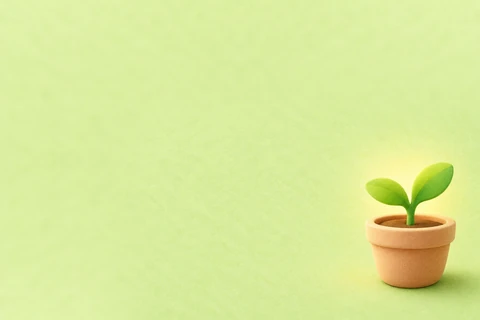
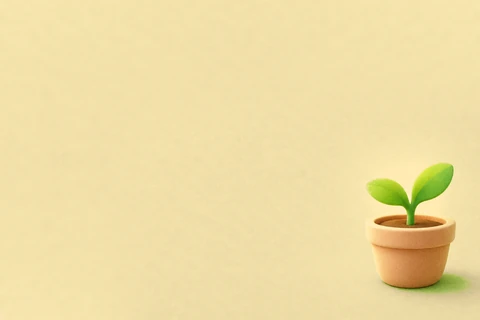
style: replace light green with rose and butter
- You home Invite friends tile and its paper plane are rose.
- The Discipleship group card's pale green field is butter; the sprout
  stays green.

diff --git a/components/community/community-home-v3.module.css b/components/community/community-home-v3.module.css
@@ -64,7 +64,7 @@
 .groupTop h3 { margin: 0; font-size: 14px; line-height: 19px; font-weight: 500; overflow: hidden; display: -webkit-box; -webkit-line-clamp: 2; -webkit-box-orient: vertical; overflow-wrap: anywhere; }
 .groupMeta { max-width: 58%; font-size: 12px; line-height: 16px; opacity: .82; }
 .groupCard[data-art="location"] { background-color: #cfe6fb; color: #0e3f73; background-image: image-set(url("/assets/dashboard/community-groups/location-compact-320.webp") 1x, url("/assets/dashboard/community-groups/location-compact-640.webp") 2x); }
-.groupCard[data-art="discipleship"] { background-color: #e1f2c6; color: #23400a; background-image: image-set(url("/assets/dashboard/community-groups/discipleship-compact-320.webp") 1x, url("/assets/dashboard/community-groups/discipleship-compact-640.webp") 2x); }
+.groupCard[data-art="discipleship"] { background-color: #f6e4ac; color: #5a4508; background-image: image-set(url("/assets/dashboard/community-groups/discipleship-compact-320.webp") 1x, url("/assets/dashboard/community-groups/discipleship-compact-640.webp") 2x); }
 .groupCard[data-art="leading"] { background-color: #e3d8f8; color: #3e1876; background-image: image-set(url("/assets/dashboard/community-groups/leading-compact-320.webp") 1x, url("/assets/dashboard/community-groups/leading-compact-640.webp") 2x); }
 .groupCard[data-art="public"] { background-color: #f6e7cc; color: #5a3d0c; background-image: image-set(url("/assets/dashboard/community-groups/public-compact-320.webp") 1x, url("/assets/dashboard/community-groups/public-compact-640.webp") 2x); }
 .groupCard[data-art="private"] { background-color: #f6d9de; color: #5e2236; background-image: image-set(url("/assets/dashboard/community-groups/private-compact-320.webp") 1x, url("/assets/dashboard/community-groups/private-compact-640.webp") 2x); }

diff --git a/components/dashboard/v3/home-art.tsx b/components/dashboard/v3/home-art.tsx
@@ -22,9 +22,9 @@ export function HomeArt({ name, className }: { name: HomeArtName; className?: st
       </svg>;
     case "invite":
       return <svg {...common} width="92" height="84" viewBox="0 0 92 84">
-        <path d="M6 70c18-4 24-16 38-18" fill="none" stroke="#79b52a" strokeWidth="2" strokeDasharray="3 5" strokeLinecap="round" />
+        <path d="M6 70c18-4 24-16 38-18" fill="none" stroke="#d47a98" strokeWidth="2" strokeDasharray="3 5" strokeLinecap="round" />
         <g transform="translate(40 18)">
-          <path d="M0 34 46 8 22 46z" fill="#c4ef7a" /><path d="M0 34 46 8 18 36z" fill="#e4fbb6" /><path d="M18 36 46 8 22 46z" fill="#9dd34a" /><path d="m18 36 4 10 2-7z" fill="#6f9e2a" />
+          <path d="M0 34 46 8 22 46z" fill="#f2a9be" /><path d="M0 34 46 8 18 36z" fill="#fbd5e0" /><path d="M18 36 46 8 22 46z" fill="#e17f9e" /><path d="m18 36 4 10 2-7z" fill="#b8506f" />
         </g>
       </svg>;
     case "group":

diff --git a/components/dashboard/v3/home-view.tsx b/components/dashboard/v3/home-view.tsx
@@ -278,7 +278,7 @@ function GrowTogether({ sogp }: { sogp: HomeSogp }) {
       <Tile href="/dashboard/sogp/leaderboard" art="leaderboard" tone="teal" title="Leaderboard" action="View">
         {sogp.leaderboard ? <><span className={styles.homeRank}>#{sogp.leaderboard.rank}</span><p>{sogp.leaderboard.points} points this cohort</p></> : <p>See how your cohort is growing</p>}
       </Tile>
-      <Tile href="/dashboard/sogp/referrals" art="invite" tone="lime" title="Invite friends" action="Share link">
+      <Tile href="/dashboard/sogp/referrals" art="invite" tone="rose" title="Invite friends" action="Share link">
         <p>Share your link and walk with them</p>
       </Tile>
       {group.kind === "member"

diff --git a/components/dashboard/v3/dashboard.module.css b/components/dashboard/v3/dashboard.module.css
@@ -322,7 +322,7 @@
 .homeTile[data-tone="teal"] { background: #0f3d3e; color: white; }
 .homeTile[data-tone="teal"] p { color: #c9e4dc; opacity: 1; }
 .homeTile[data-tone="teal"] .homeTileAction { color: #ffd479; }
-.homeTile[data-tone="lime"] { background: #eaf7d4; color: #23400a; }
+.homeTile[data-tone="rose"] { background: #fbe4ea; color: #6e1d38; }
 .homeTile[data-tone="lilac"] { background: #ece3fb; color: #3e1876; }
 .homeTile[data-tone="sand"] { background: #f6ecd9; color: #5a3d0c; }
 .homeTile:focus-visible, .homeRailTile:focus-visible { outline: 2px solid var(--color-brand-blue); outline-offset: 3px; }

diff --git a/docs/ai_scratchpad.md b/docs/ai_scratchpad.md
@@ -39,7 +39,7 @@ Consolidated 2026-10-13. Keep this file short, current, pattern-focused, and fre
 - Approved v3 dashboard typography: Sen for every authenticated-dashboard `h1`–`h3`; it comes from `--font-dashboard-heading` (`dashboardHeadingFont` in `components/dashboard/v3/font.ts`), never `--font-sen`, which the shell remaps to the body face for older feature pages; Inter (variable, optical size) remains the dashboard body/control/label/status face via `components/dashboard/v3/font.ts`. Tracking tokens on `.root`: headings −2% (`--dashboard-tracking-heading`), body −0.6%, small text 0; don't hard-code px tracking. The shared dashboard/community canvas is the warmer `--color-community-canvas: #f8f6f2`, with white raised surfaces and visible edges. Public pages keep their existing Sen/Be Vietnam Pro system. Sizes: greeting 21/28, titles 24/32, sections 15/22, body 14/22, metadata 13/20, snug status pills 12/18. Two radius tiers: illustrated/hero surfaces (learning cards, tiles) keep 16px `--dashboard-card-radius`; data and list panels use 10px `--dashboard-panel-radius` with the softer `--dashboard-panel-edge`. Dashboard controls are svelte (user correction 17 October, every authenticated dashboard screen): primary buttons 38px (`--dashboard-control-height`), secondary buttons/chips/tabs/icon buttons and text-link hit areas 36px (`--dashboard-hit-size`), fields 38px with 16px text, list rows about 40px. Never reintroduce 44/48px fat controls on the dashboard; public, enrolment and auth pages keep their own sizing. Preserve legacy feature-page behaviour until its own slice.
 - Navigation: one white menu / centred You–Community / notifications row; profile/settings in desktop sidebar or the sole mobile/tablet drawer. Workspace contains My learning, Saved contacts and authorised Church oversight/assignments. Auth `admin`/`super_admin` and church-appointed Pastor/Branch Pastor receive an `Admin` link; church appointment supplies the scoped authority even when the legacy app role is `student`. Legacy app-role pastors and ordinary disciplers get `My enrollees`, not general Admin. My disciples belongs under Community despite its retained SOGP URL; reports remain You despite their community URL. Match Paper/contract first: no default “More destinations”, legacy inventory or extra profile-role line. Preserve retained capabilities through contextual screens, password recovery and server-owned sign-out; route inventory is not permission to carry old UI forward. Permissions come from server capabilities, never role labels.
 - Always state the next approved work item and start it without waiting for another “go on”; stop only for genuinely blocking decisions or new authority. Prioritise live page bodies over repeated audits/rollout ceremony, especially for demos. Match Paper first, use requested browser snapshots, defer automated checks when asked and push focused checkpoints. Preserve query-pinned deep links and reconcile client caches after mutations; server revalidation alone does not replace TanStack initial data.
- - The You home is SOGP-centric (Pastor review, 17 October; supersedes the two-destination hub). Pleros is an SOGP app, not a church super app: a learner never clicks "into SOGP" again. Order: greeting with cohort/week, the original illustrated My learning card unchanged, Today (date, "x of y done", Mon–Sun strip, Prayer Watch tick, next group review), Your progress (path-aware learning, Prayer Watch %, reviews, certificate readiness), Grow together illustrated tiles (leaderboard, invite, group, share card), compact My reports for oversight-structure members only, then More from Pleros tiles (podcast, Welcome Pack, Pre-SOGP, partnership — partnership must always have a home). Old SOGP dashboard elements come back as v3 rows, strips and lists, not cards; only destinations become illustrated tiles, each with its own complementary palette (never a second blue hero). Say "oversight structure", not "church structure", in learner copy. The Community home is headed "Your Pleros Community" (no subheadline); its Oversight section ends with the "Church oversight" row. It is count cards with icons (unread messages, check-ins, invitations), illustrated group cards (Codex art per type, compact square cut on phones and 3:2 cut from 640px, each at 1x/2x under `public/assets/dashboard/community-groups/`, object deep in the bottom-right corner so copy never overlaps it), a "+ New group" card (`/dashboard/community/groups?create=1`) and Oversight rows; Community's old white title bar and section switcher are retired (the Pastor disliked them): the five destinations live in the grounded bottom bar on phones and tablets and a slim top strip under the 48px header from `lg`, while each deep page carries its own heading or back link. Counts are one slim divided strip (Mobbin pattern: Jomo, Squarespace): icon + one-line label over a 22px Sen number, coloured only when above zero; group card titles use the full card width, up to two lines. Groups you lead share one illustration in two colourways (lilac, coral; never light or mint green; hue-shifted from the same art so shape and grain match), alternated oldest-first so neighbours differ. Home reads stay read-only (`getHomeDiscipleshipSummary` never creates groups). Earlier hub rules below still govern the learning card and report pinning. Learning card (user correction 17 October): the staircase art is anchored bottom-right (scaled 114%, nudged 22px right and 30px down past the corner on phones; desktop uses each artwork's 3:1 `-wide.webp` cut with cover so the object stays a small corner piece, and copy is capped at 74% / 420px) so it never shifts with width; title, eyebrow and pace pill scale with the card (container units) and never wrap; the Resume button uses the 38px primary size. Each SOGP level has its own card art and palette (`learningArt` in `components/dashboard/v3/home-view.tsx`; WebP under `public/assets/dashboard/learning-card/`): level 1 blue staircase (also the fallback, including podcast paths), level 2 green foundation stones, level 3 terracotta arch, level 4 plum hill and lantern. New art is generated with Codex image generation using v5 as the style reference, so grain and lighting match.
+ - The You home is SOGP-centric (Pastor review, 17 October; supersedes the two-destination hub). Pleros is an SOGP app, not a church super app: a learner never clicks "into SOGP" again. Order: greeting with cohort/week, the original illustrated My learning card unchanged, Today (date, "x of y done", Mon–Sun strip, Prayer Watch tick, next group review), Your progress (path-aware learning, Prayer Watch %, reviews, certificate readiness), Grow together illustrated tiles (leaderboard, invite, group, share card), compact My reports for oversight-structure members only, then More from Pleros tiles (podcast, Welcome Pack, Pre-SOGP, partnership — partnership must always have a home). Old SOGP dashboard elements come back as v3 rows, strips and lists, not cards; only destinations become illustrated tiles, each with its own complementary palette (never a second blue hero). Say "oversight structure", not "church structure", in learner copy. The Community home is headed "Your Pleros Community" (no subheadline); its Oversight section ends with the "Church oversight" row. It is count cards with icons (unread messages, check-ins, invitations), illustrated group cards (Codex art per type, compact square cut on phones and 3:2 cut from 640px, each at 1x/2x under `public/assets/dashboard/community-groups/`, object deep in the bottom-right corner so copy never overlaps it), a "+ New group" card (`/dashboard/community/groups?create=1`) and Oversight rows; Community's old white title bar and section switcher are retired (the Pastor disliked them): the five destinations live in the grounded bottom bar on phones and tablets and a slim top strip under the 48px header from `lg`, while each deep page carries its own heading or back link. Counts are one slim divided strip (Mobbin pattern: Jomo, Squarespace): icon + one-line label over a 22px Sen number, coloured only when above zero; group card titles use the full card width, up to two lines. Groups you lead share one illustration in two colourways (lilac, coral; never light or mint green — the Invite friends tile is rose and the Discipleship card field is butter; hue-shifted from the same art so shape and grain match), alternated oldest-first so neighbours differ. Home reads stay read-only (`getHomeDiscipleshipSummary` never creates groups). Earlier hub rules below still govern the learning card and report pinning. Learning card (user correction 17 October): the staircase art is anchored bottom-right (scaled 114%, nudged 22px right and 30px down past the corner on phones; desktop uses each artwork's 3:1 `-wide.webp` cut with cover so the object stays a small corner piece, and copy is capped at 74% / 420px) so it never shifts with width; title, eyebrow and pace pill scale with the card (container units) and never wrap; the Resume button uses the 38px primary size. Each SOGP level has its own card art and palette (`learningArt` in `components/dashboard/v3/home-view.tsx`; WebP under `public/assets/dashboard/learning-card/`): level 1 blue staircase (also the fallback, including podcast paths), level 2 green foundation stones, level 3 terracotta arch, level 4 plum hill and lantern. New art is generated with Codex image generation using v5 as the style reference, so grain and lighting match.
  - Earlier hub rules: no AM/PM or schedule framing, support card, essentials links or church invitation strip. Use an off-white canvas, intentional raised white surfaces, brand colour and restrained image-generated background illustration after a Claude design critique; do not let reference-gallery patterns drive the design. Generated card art is background-only: use the flat-blue simplicity of `purpose-welcome-card.svg`, add subtle tactile paper grain, and keep the learning illustration compact and secondary—a small rounded 2.5D staircase, thin path and restrained lime doorway in the lower-right, suggestive of Christian formation without literal Bible/plant imagery, using Cowrywise's product-icon restraint without copying—while retaining broad quiet overlay-safe space; render every label, value, progress state and control dynamically in code. `My learning` leads with the next unfinished learning (never “today's episode”) and exposes only existing settings: the preview-confirmed 15/30-minute podcast or 1-hour traditional path, podcast tracklist when present, and App and reminders; the separate podcast journey is not a learning setting. `My reports` date-pins directly into the dedicated reporting workspace and shows only real own-report status data. Preserve retained destinations through their own routes/contextual links and never reuse fixture timers, names or counts.
 - After baseline approval, connect each requested live route's body presenter, not just its shell. Backend-only checkpoints do not replace an old UI; report that distinction explicitly. Preserve retained actions/privacy and never fill unsupported design fields with sample facts. Greet by Lagos time, date-pin report links and distinguish Nil/missing/unconfirmed. Home support reads must not lazily create groups; disable prefetch for the mutating discipleship landing route. Keep authenticated private screenshots local rather than publishing them with synthetic evidence.
 
